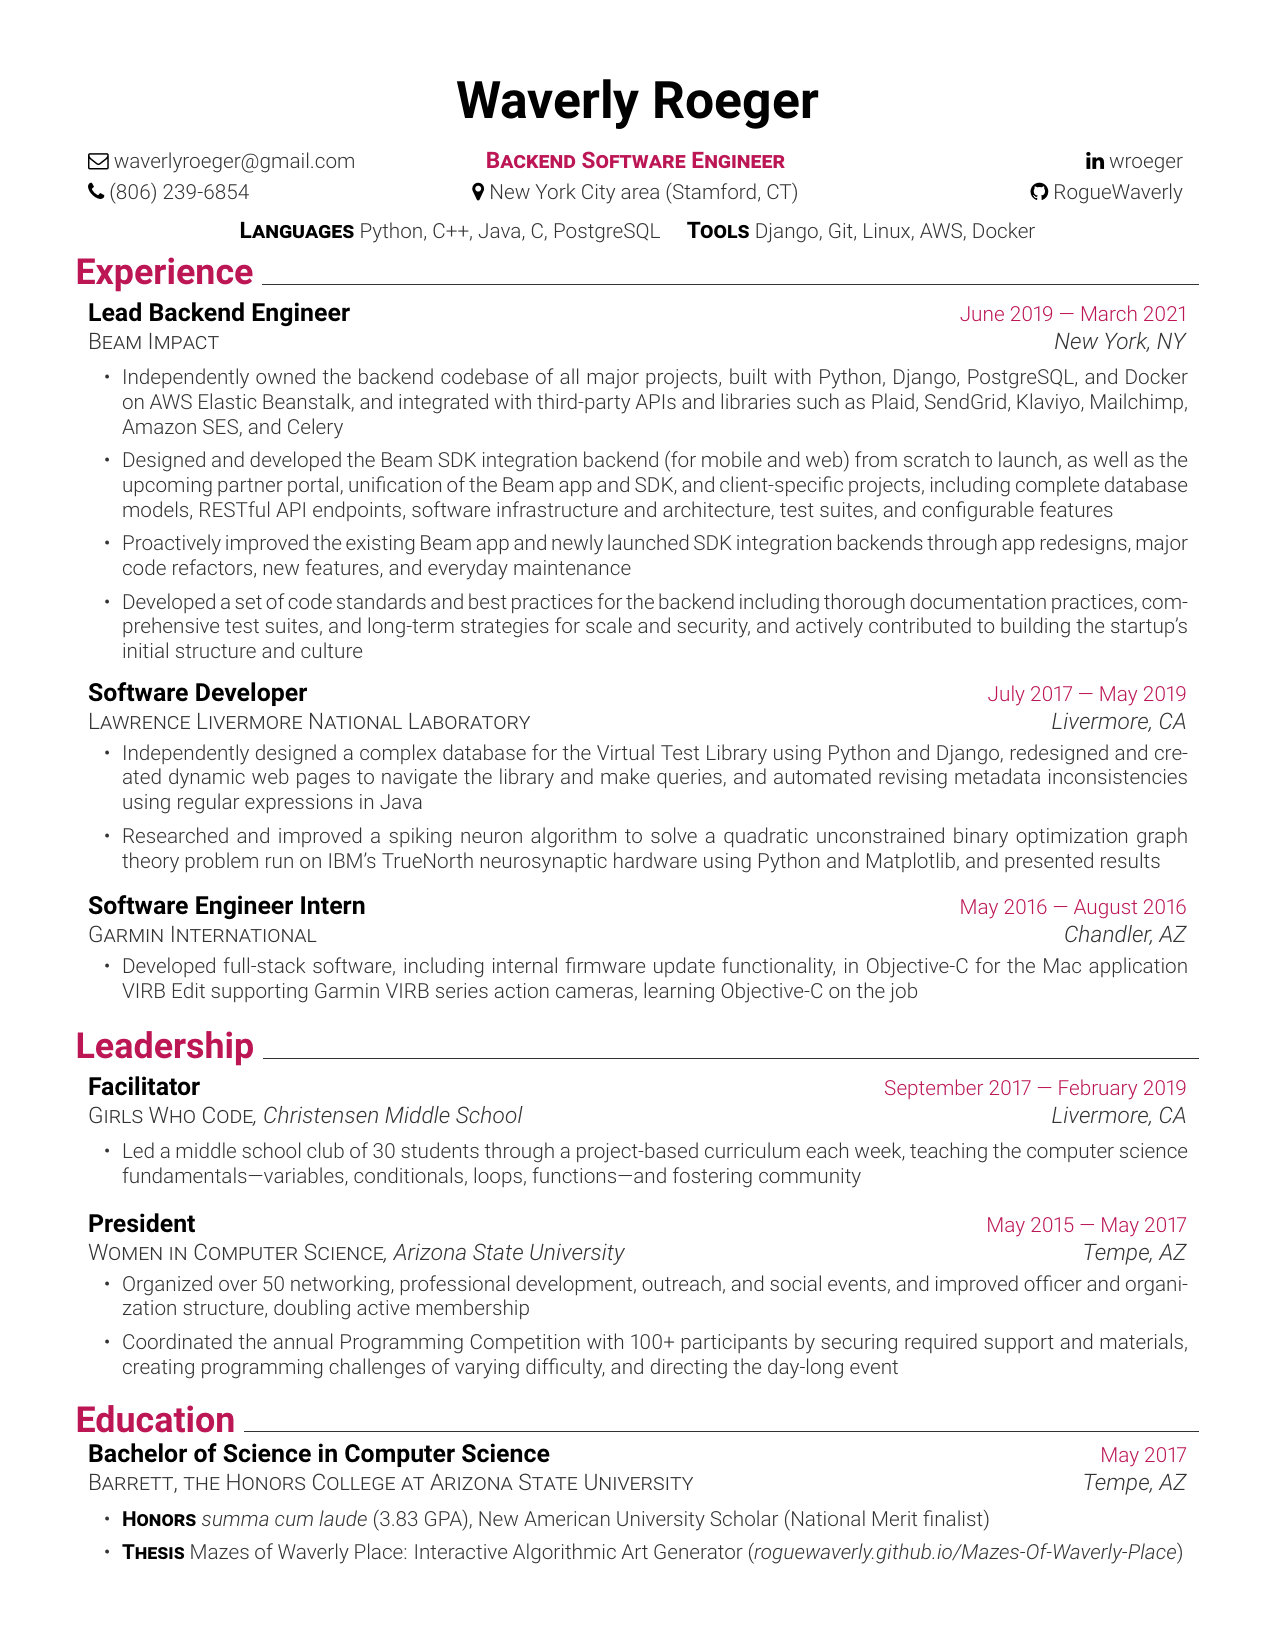
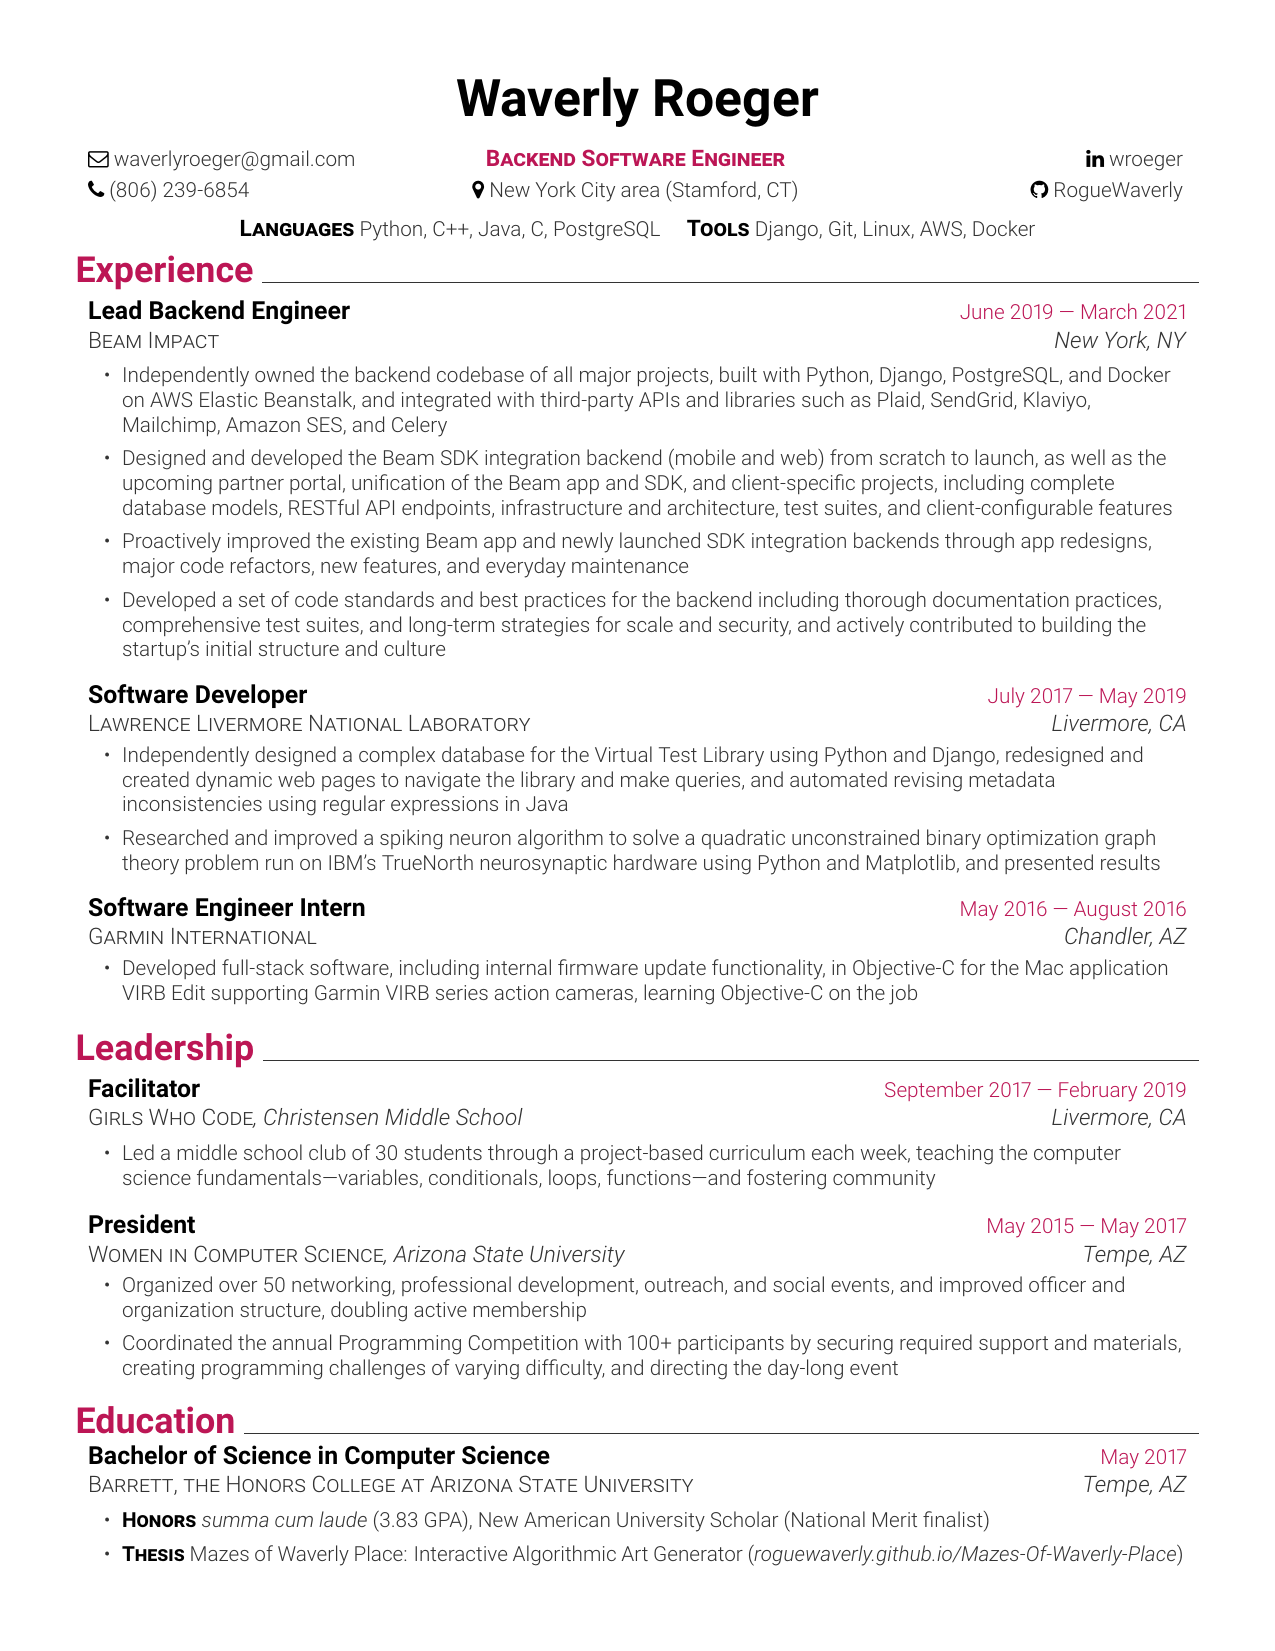
Left align content

diff --git a/resume.tex b/resume.tex
@@ -10,7 +10,7 @@
 \usepackage{xcolor}
 
 % margins
-\geometry{left=1.28cm, right=1.28cm, top=1.35cm, bottom=1.35cm}
+\geometry{left=1.28cm, right=1.28cm, top=1.32cm, bottom=1.32cm}
 % header and footer
 \pagestyle{fancy}
 \renewcommand{\headrulewidth}{0pt}
@@ -77,6 +77,7 @@
 
 \newcommand{\resumeItem}[1]
 {
+  \raggedright
   \item{#1}
   \vspace{-\resumeSpacing}
 }
@@ -118,7 +119,7 @@
     \resumeItem
     {Independently owned the backend codebase of all major projects, built with Python, Django, PostgreSQL, and Docker on AWS Elastic Beanstalk, and integrated with third-party APIs and libraries such as Plaid, SendGrid, Klaviyo, Mailchimp, Amazon SES, and Celery}
     \resumeItem
-    {Designed and developed the Beam SDK integration backend (for mobile and web) from scratch to launch, as well as the upcoming partner portal, unification of the Beam app and SDK, and client-specific projects, including complete database models, RESTful API endpoints, software infrastructure and architecture, test suites, and configurable features}
+    {Designed and developed the Beam SDK integration backend (mobile and web) from scratch to launch, as well as the upcoming partner portal, unification of the Beam app and SDK, and client-specific projects, including complete database models, RESTful API endpoints, infrastructure and architecture, test suites, and client-configurable features}
     \resumeItem
     {Proactively improved the existing Beam app and newly launched SDK integration backends through app redesigns, major code refactors, new features, and everyday maintenance}
     \resumeItem
